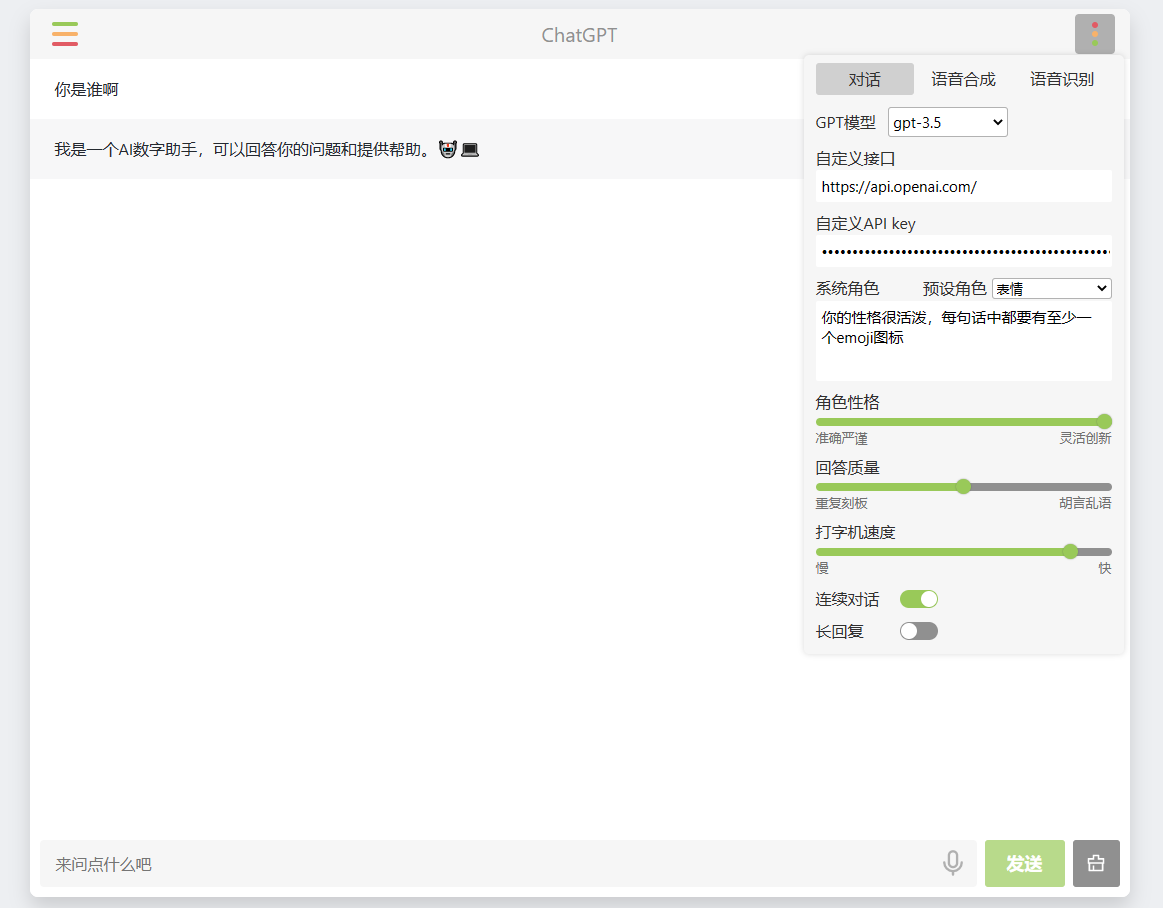
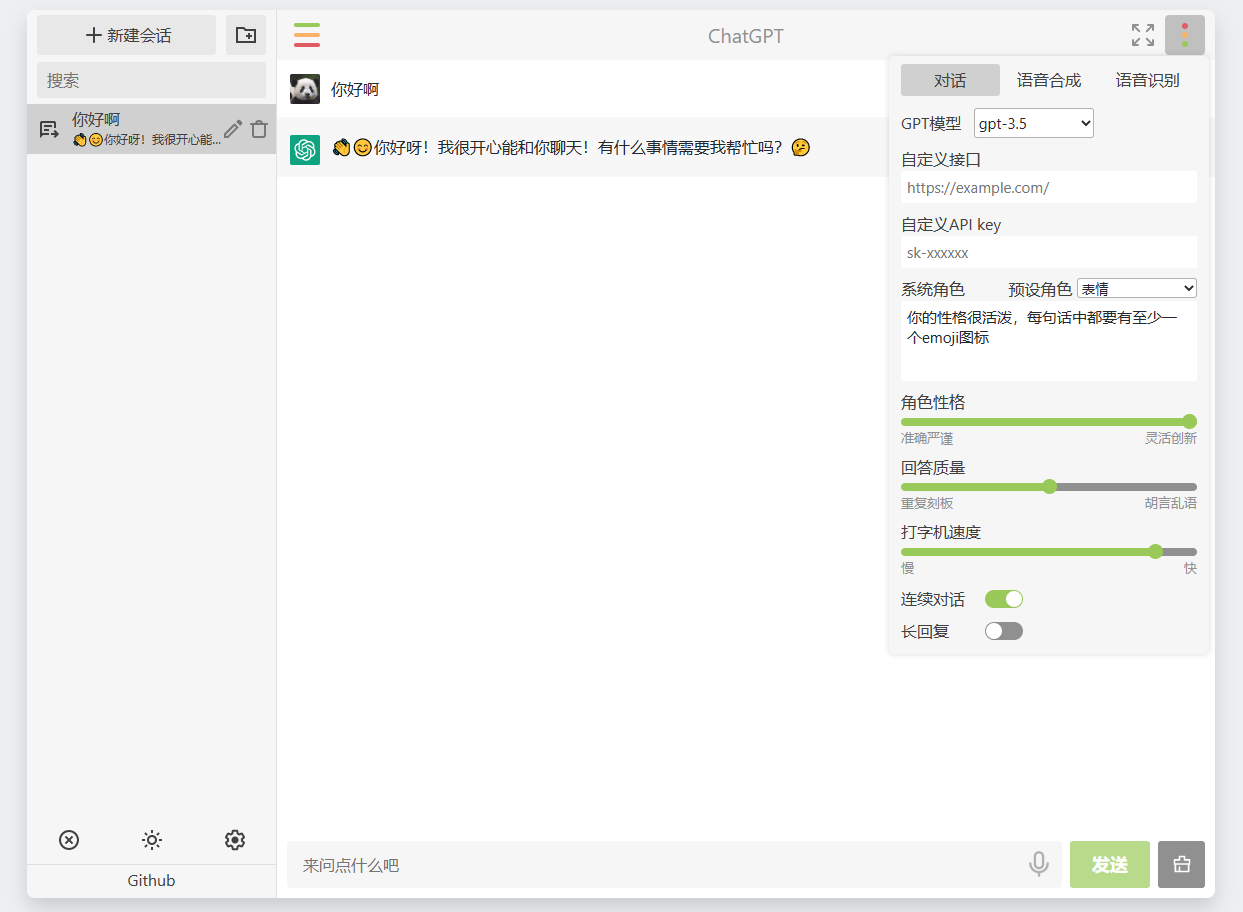
complete readme

diff --git a/index.html b/index.html
@@ -718,6 +718,7 @@
 
         input[type="range"] {
             -webkit-appearance: none;
+            appearance: none;
             display: block;
             margin: 6px 0 3px 0;
             height: 8px;

diff --git a/README.md b/README.md
@@ -5,8 +5,9 @@ Pure Javascript ChatGPT demo based on OpenAI API
 
 部署一个HTML文件即可使用。
 
-支持搜索会话，深色模式，自定义头像等。
 支持复制/更新/刷新会话，语音输入，朗读等功能，以及众多[自定义选项](#自定义选项)。
+
+支持搜索会话，深色模式，自定义头像等。
 
 参考项目: 
 [markdown-it](https://github.com/markdown-it/markdown-it), 
@@ -96,6 +97,8 @@ ___
 
 ## 自定义选项
 
+- 左边栏支持，搜索会话，新建/重命名/删除(会话/文件夹)，浅色/深色/自动主题模式，导出数据，导入数据，清空所有数据，自定义头像。
+
 - 可选GPT模型，默认gpt-3.5，当前使用gpt-4模型需通过openai的表单申请。
 
 - 可选自定义接口地址，使用nginx或caddy部署反代后可以不设置。
@@ -126,5 +129,3 @@ ___
 - 允许自动朗读，默认关闭，自动朗读新的回答。**（iOS需打开设置-自动播放视频预览，Mac上Safari需打开此网站的设置-允许全部自动播放）**
 
 - 支持语音输入，默认识别为普通话，可长按语音按钮修改识别选项。**语音识别必需条件：使用chrome内核系浏览器 + https网页或本地网页。** 如点击语音按钮没反应，可能是未授予麦克风权限或者没安装麦克风设备。
-
-- 左边栏支持功能，搜索会话，新建/重命名/删除(会话/文件夹)，浅色/深色/自动主题模式，导出数据，导入数据，清空所有数据。
